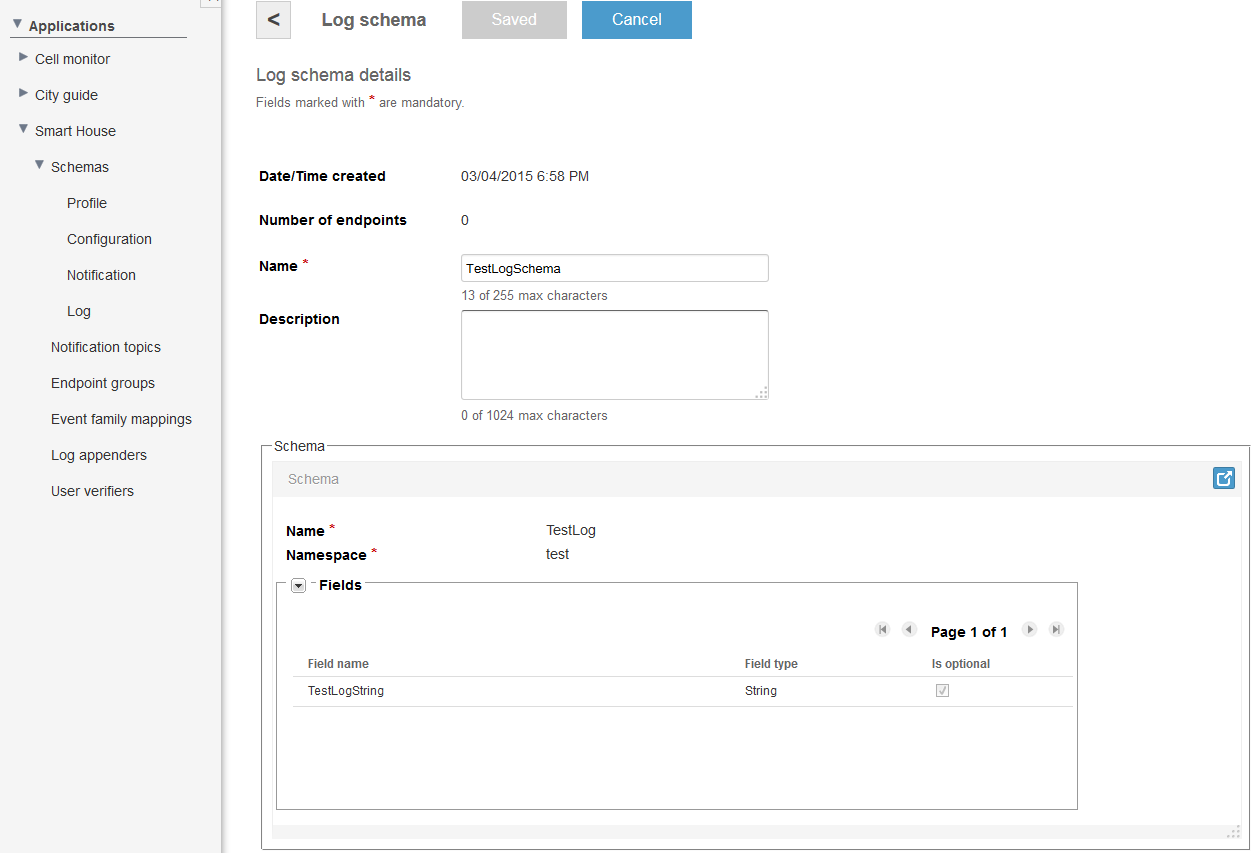
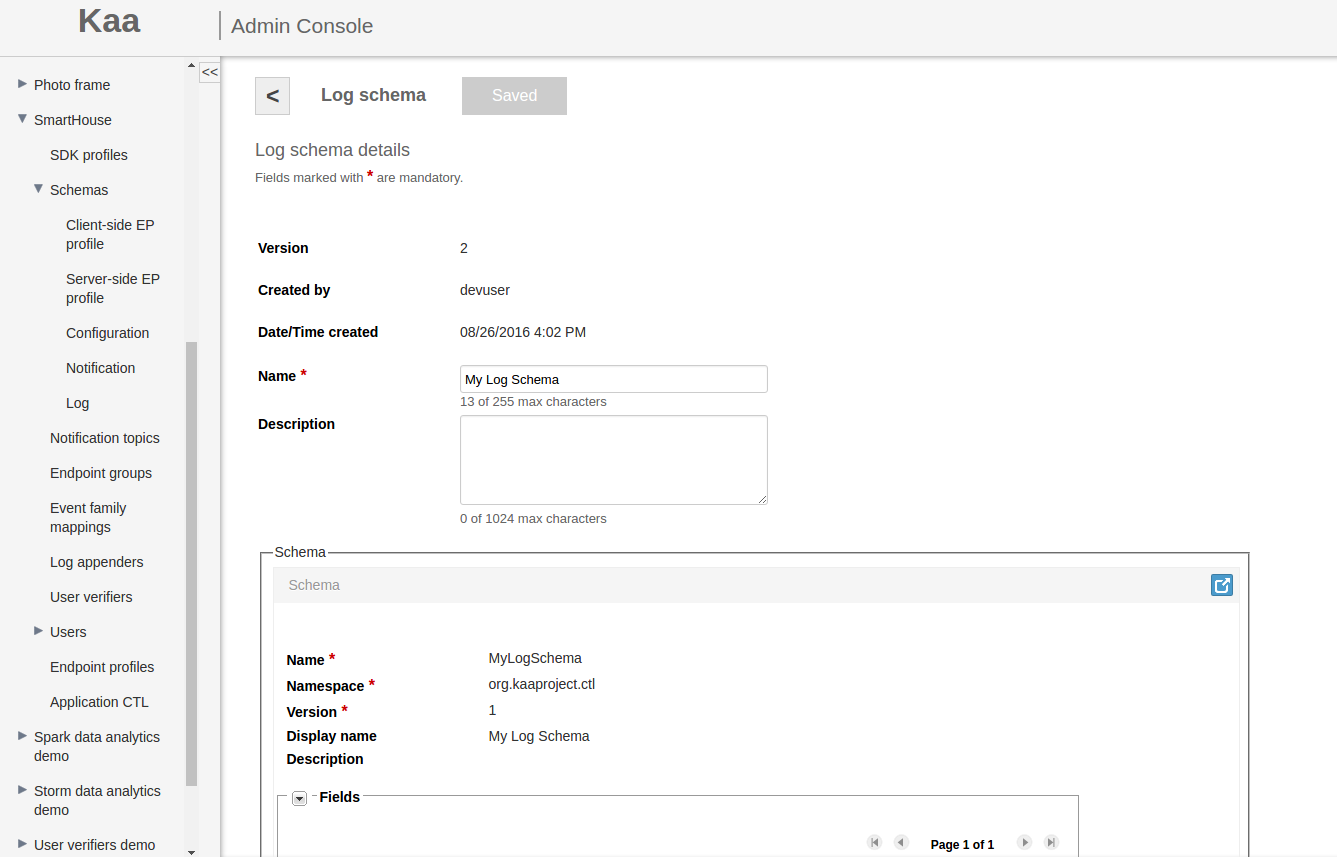
CTL update of data collection documentation

diff --git a/Programming-guide/Key-platform-features/Data-collection/index.md b/Programming-guide/Key-platform-features/Data-collection/index.md
@@ -107,8 +107,9 @@ The following examples illustrate basic log schemas.
 
 ## Adding log schema
 
-The default log schema installed for Kaa applications is empty. You can configure your own log schema using the Admin UI or
-[Admin REST API]({{root_url}}Programming-guide/Server-REST-APIs/#!/Logging/saveLogSchema).
+The default log schema installed for Kaa applications is empty. You can configure your own log schema via REST API -- first [create new CT schema]({{root_url}}Programming-guide/Server-REST-APIs/#!/Common_Type_Library/saveCTLSchemaWithAppToken)
+and after that [create log schema]({{root_url}}Programming-guide/Server-REST-APIs/#!/Logging/saveLogSchema) which contains a reference to the created before CT or use Administration UI as shown below.
+
 For the purpose of this guide, we will use schema that is very close to the common log structure:
 
 * log level
@@ -150,12 +151,20 @@ For the purpose of this guide, we will use schema that is very close to the comm
 
 In Admin UI as a tenant developer, you can create new log schemas for the application as follows:
 
-1. In the Log schemas window for the application, click **Add schema**.
-2. In the Add log schema window, create a log schema either by using the
-[schema form]({{root_url}}Administration-guide/Tenants-and-applications-management/#schema-form) or by uploading a schema in the
-[Avro](http://avro.apache.org/docs/current/spec.html) format from a file.
-![Add log schema](attach/add-log-schema.png)
-3. Click **Add** to save the schema.
+1. In the **Log schemas** window for the application, click **Add schema**.
+2. In the **Add Log schema** window enter the name of the schema.
+3. Then create a schema using one of the two options:
+
+    1. Using the existing CT by clicking **Select existing type** and selecting exiting CT version from FQN and version drop-downs.
+    
+        ![Add Log Schema 1](attach/add_log_schema_1.png)
+    
+    2. Create new CT by clicking **Create new type**. In this case you will be redirected to **Add new type** window. Here you can create a schema either by using the 
+    schema form or by uploading a schema in the [Avro](http://avro.apache.org/docs/current/spec.html) format from a file.
+    
+        ![Add Log Schema 2](attach/add_log_schema_2.png)
+        
+4. Click **Add** to save the schema.
 
 If you want to review the added Avro schema, open the **Log schema details** window by clicking the schema in the **Log schemas** window.
 

diff --git a/Programming-guide/Key-platform-features/Configuration-management/index.md b/Programming-guide/Key-platform-features/Configuration-management/index.md
@@ -24,7 +24,7 @@ application, Kaa provides a number of very useful features, such as:
 The structure of the configuration data is determined by the customizable configuration schema. 
 It is the responsibility of the Kaa developer to construct the configuration schema and make the client application interpret the data supplied by the endpoint SDK.
 Kaa developer can provision the configuration schema via REST API -- first [create new CT schema]({{root_url}}Programming-guide/Server-REST-APIs/#!/Common_Type_Library/saveCTLSchemaWithAppToken)
-and after that [create configuration schema]({{root_url}}Programming-guide/Server-REST-APIs/#!/Configuration/saveConfigurationSchema) which contains a reference to the created before CT or use Administration UI as shown below:
+and after that [create configuration schema]({{root_url}}Programming-guide/Server-REST-APIs/#!/Configuration/saveConfigurationSchema) which contains a reference to the created before CT or use Administration UI as shown below.
 
 1. In the **Configuration schemas** window for the application, click **Add schema**.
 2. In the **Add Configuration schema** window enter the name of the schema.
